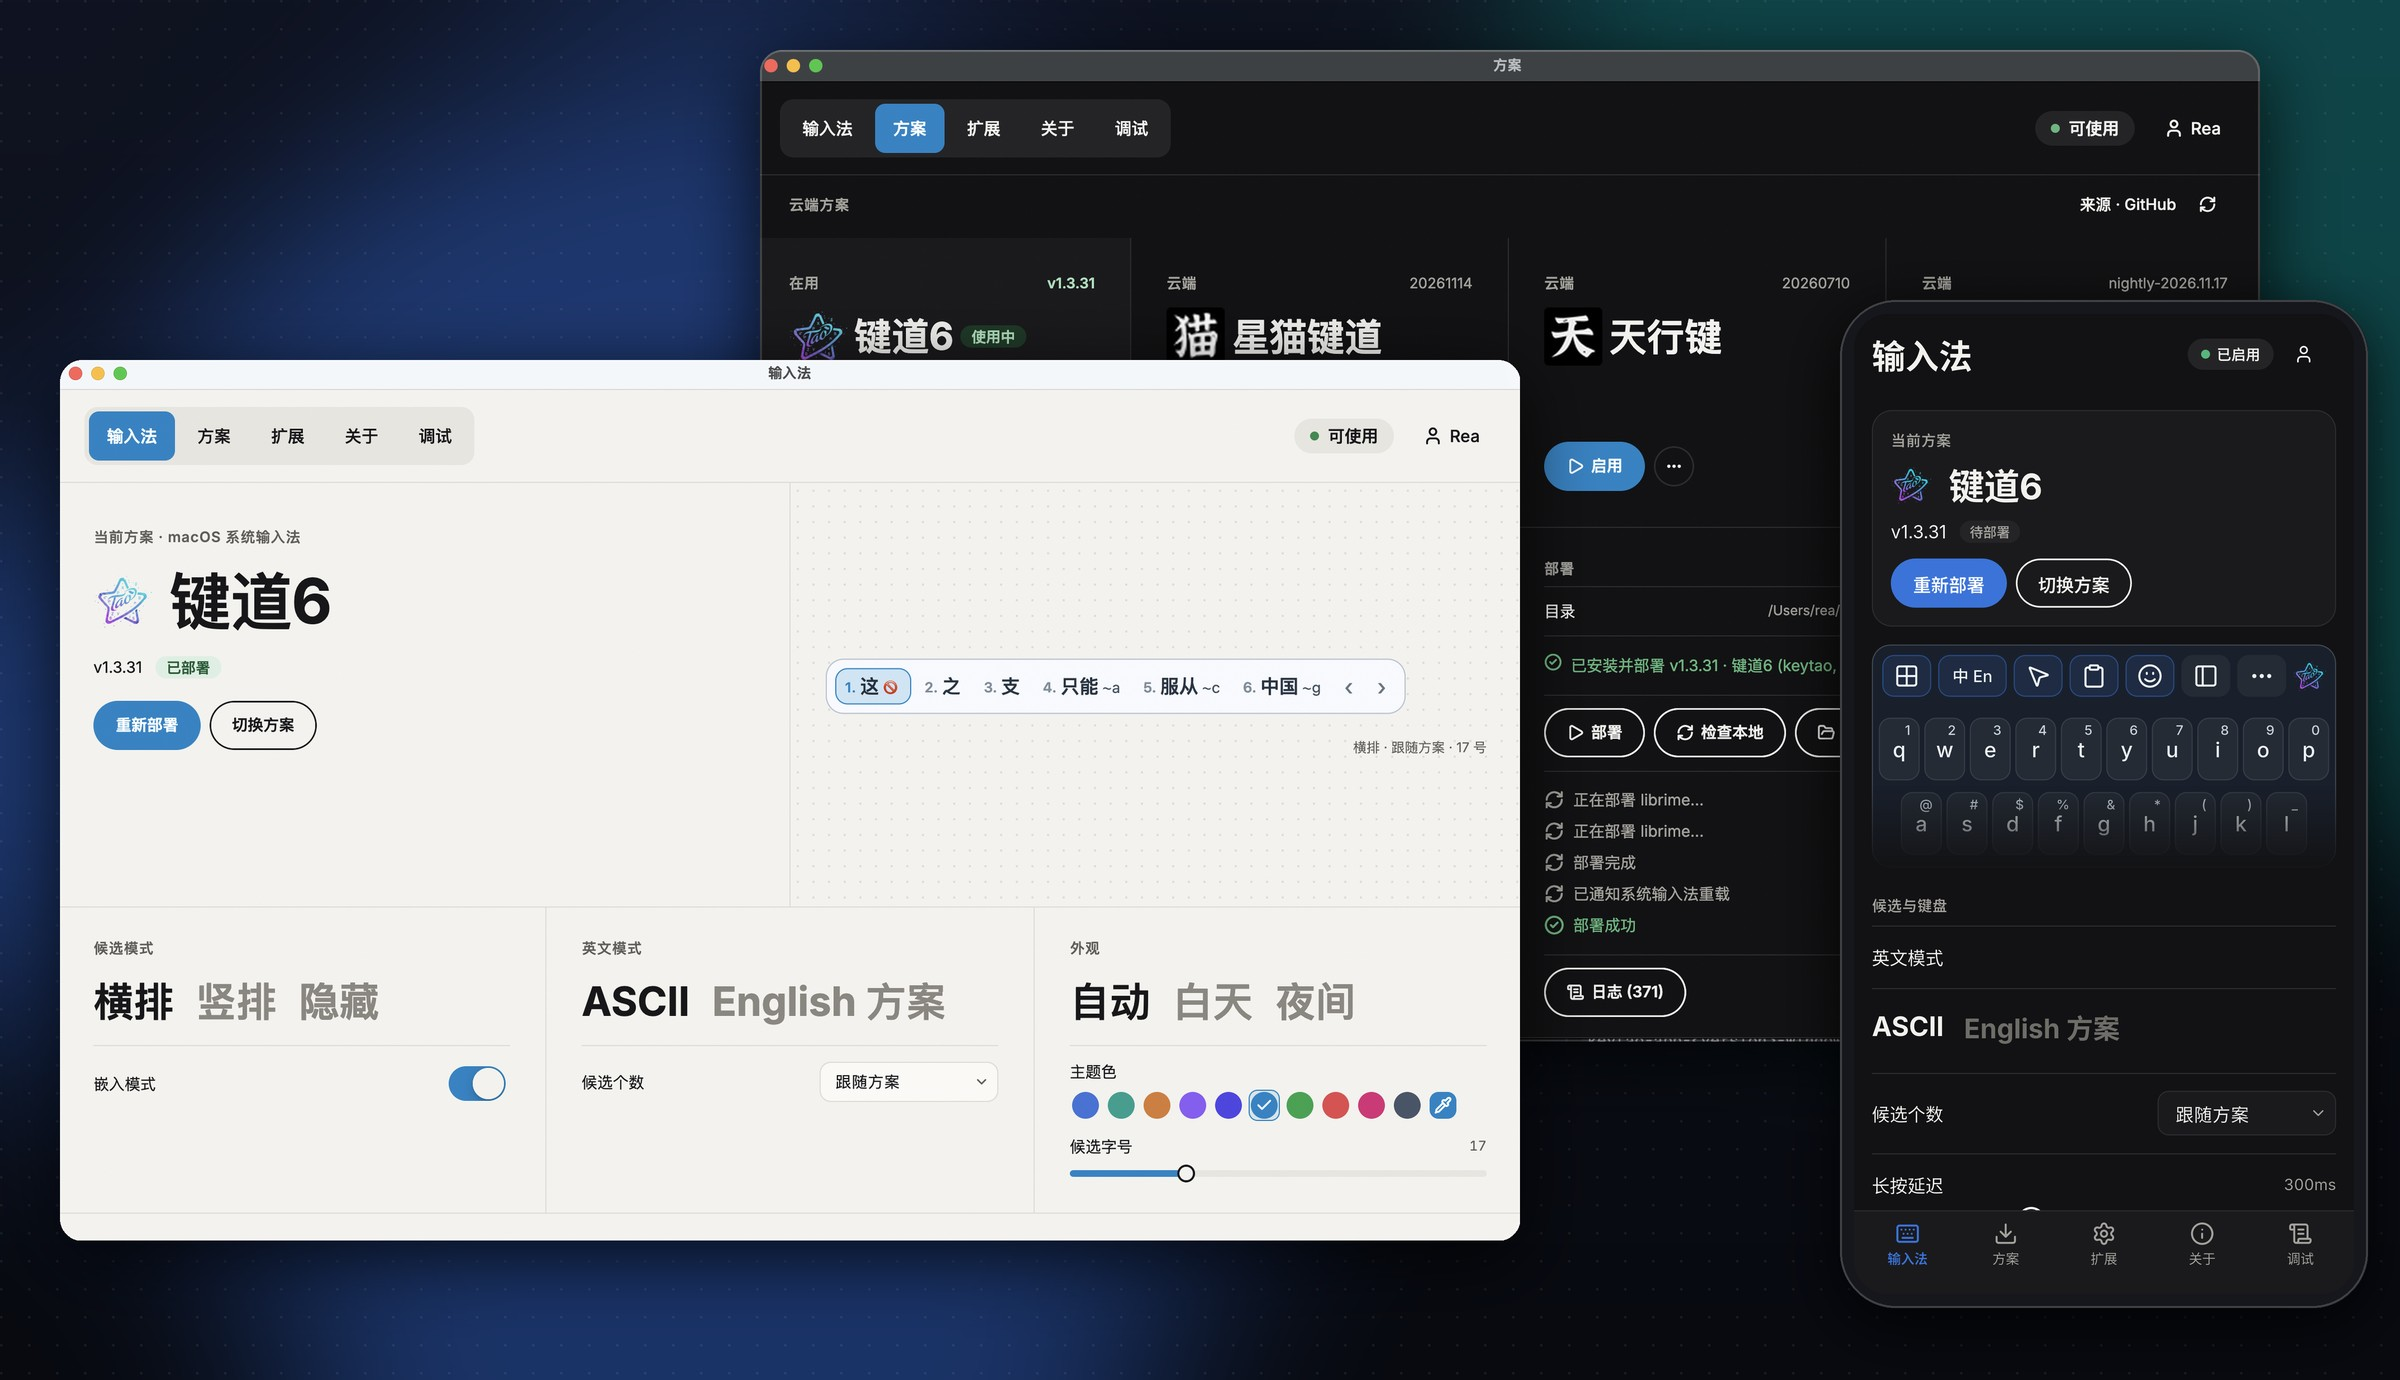
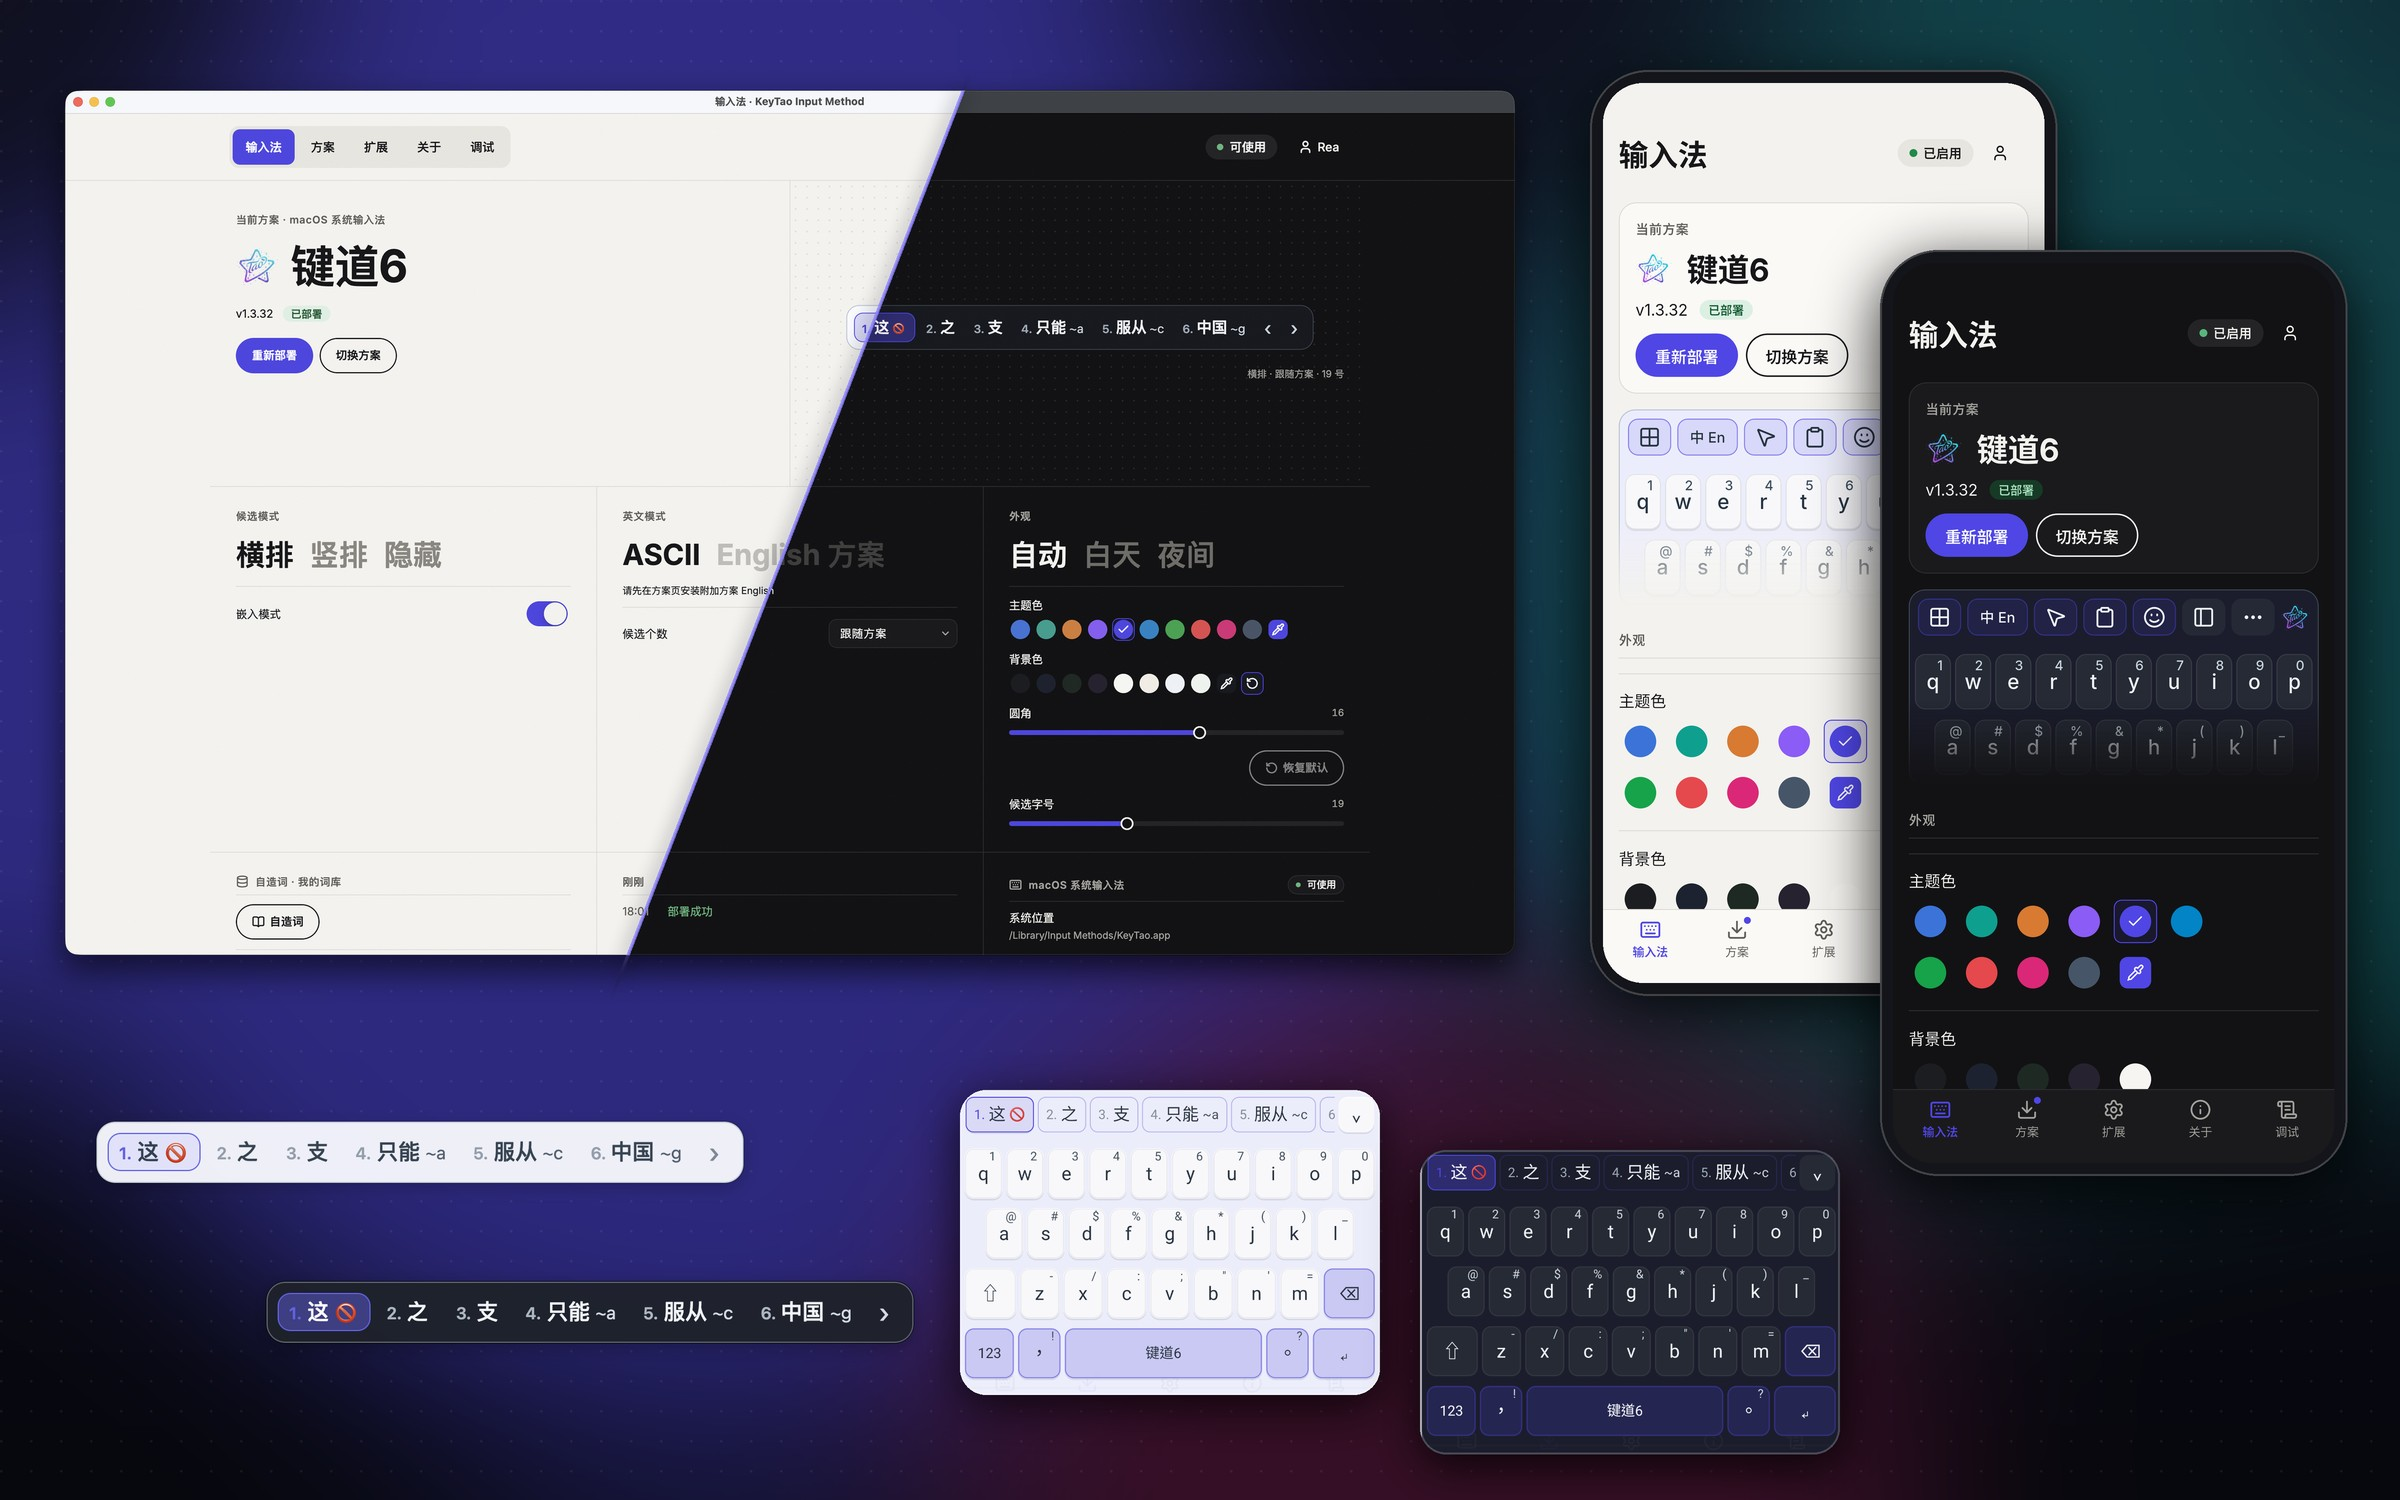
docs(readme): refresh the showcase with current macOS, candidate and phone screenshots

diff --git a/README.md b/README.md
@@ -1,7 +1,7 @@
 <h1><img src="packaging/icons/icon.png" width="40" height="40" align="left" alt="">&nbsp;键道 KeyTao</h1>
 
 <p align="center">
-  <img src="docs/images/showcase.jpg" alt="KeyTao 在 macOS 与手机上的新版设置界面">
+  <img src="docs/images/showcase.jpg" alt="KeyTao 在 macOS（浅色/深色）与手机上的设置界面、候选框和键盘">
 </p>
 
 ## 特性
